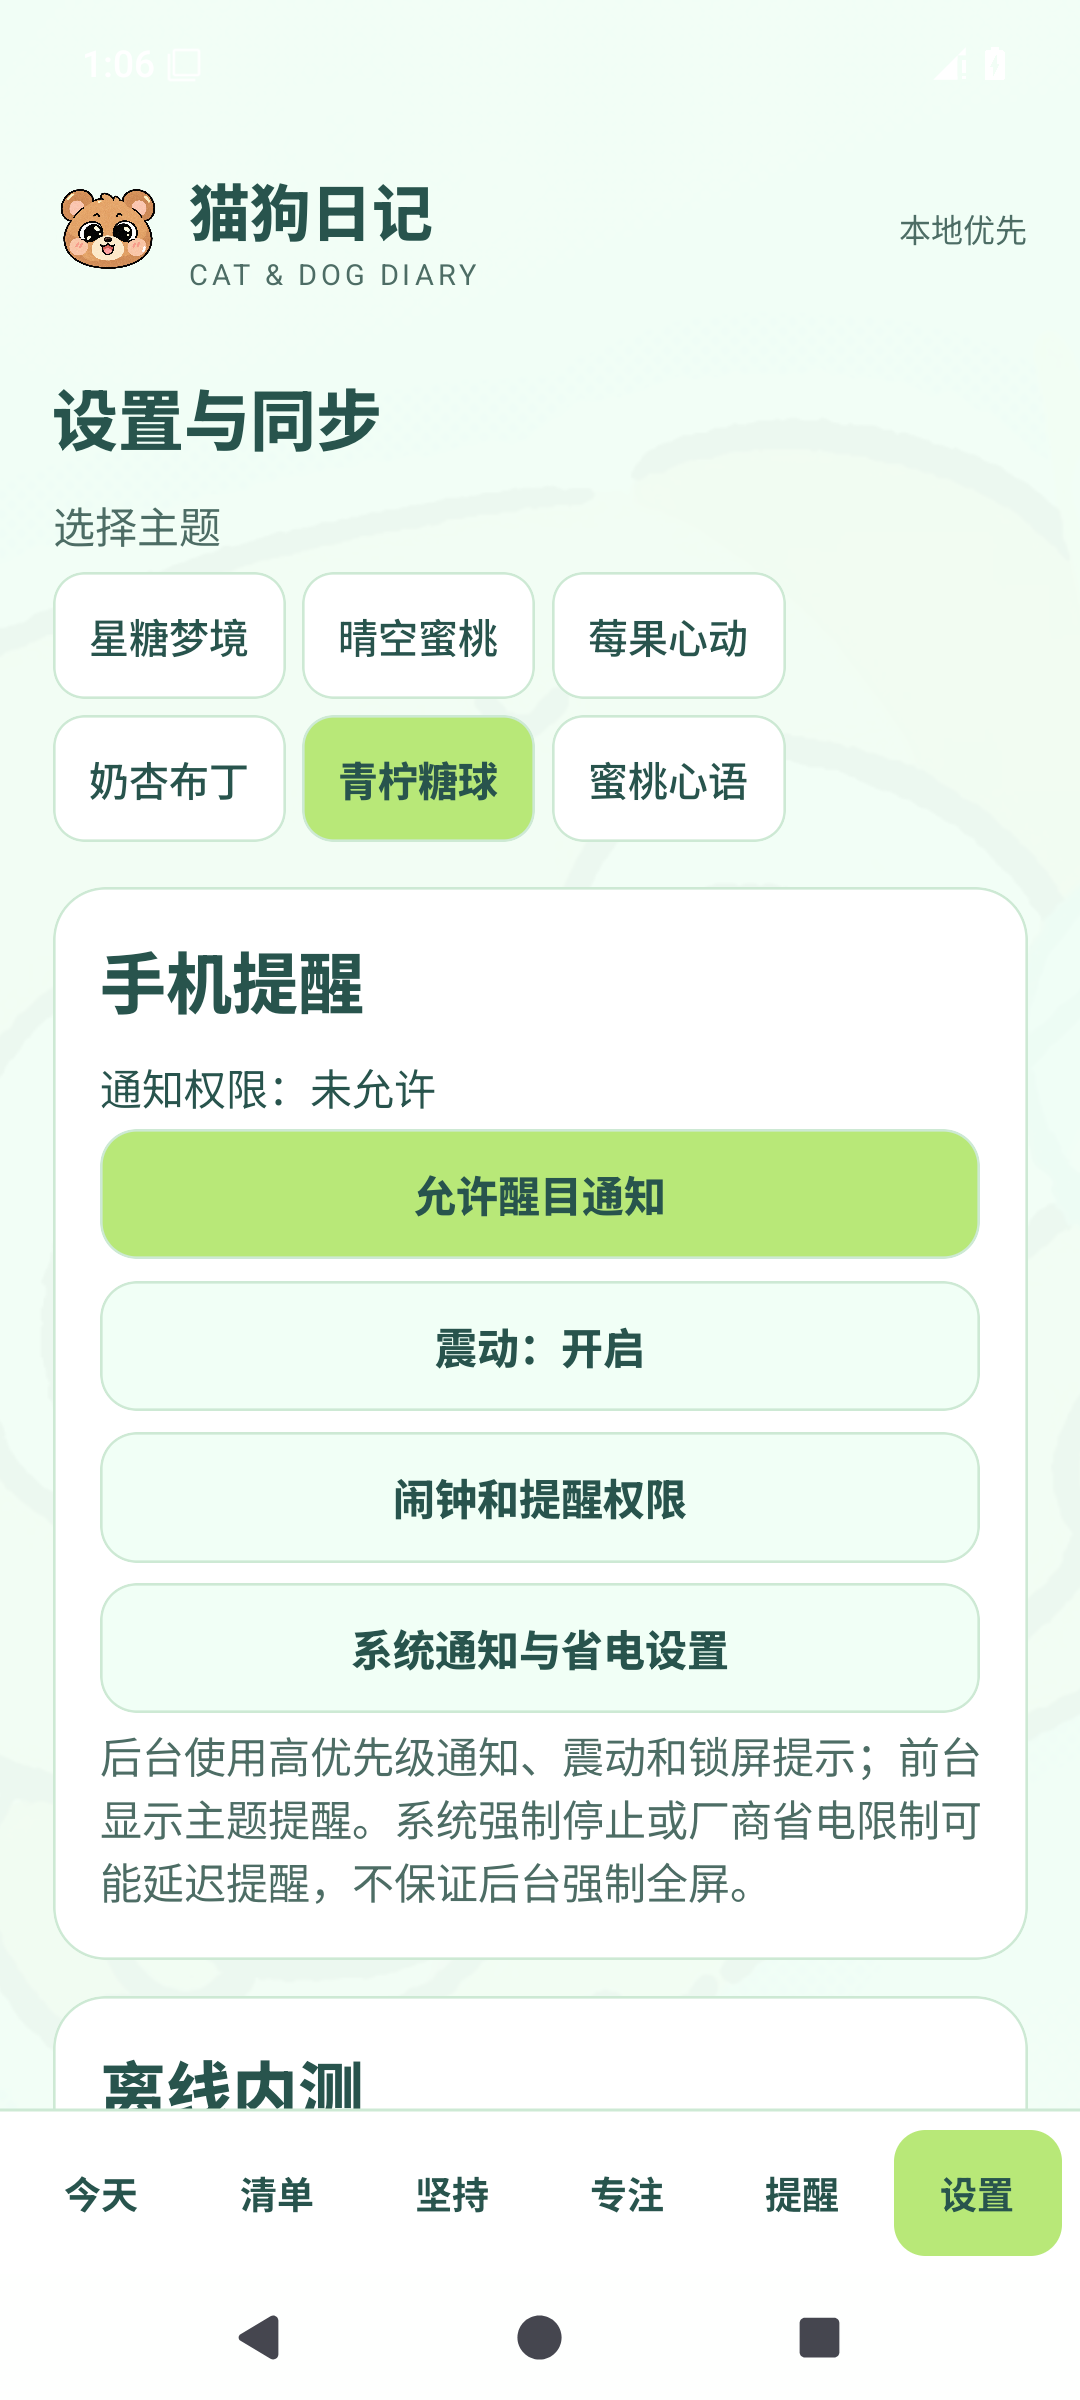
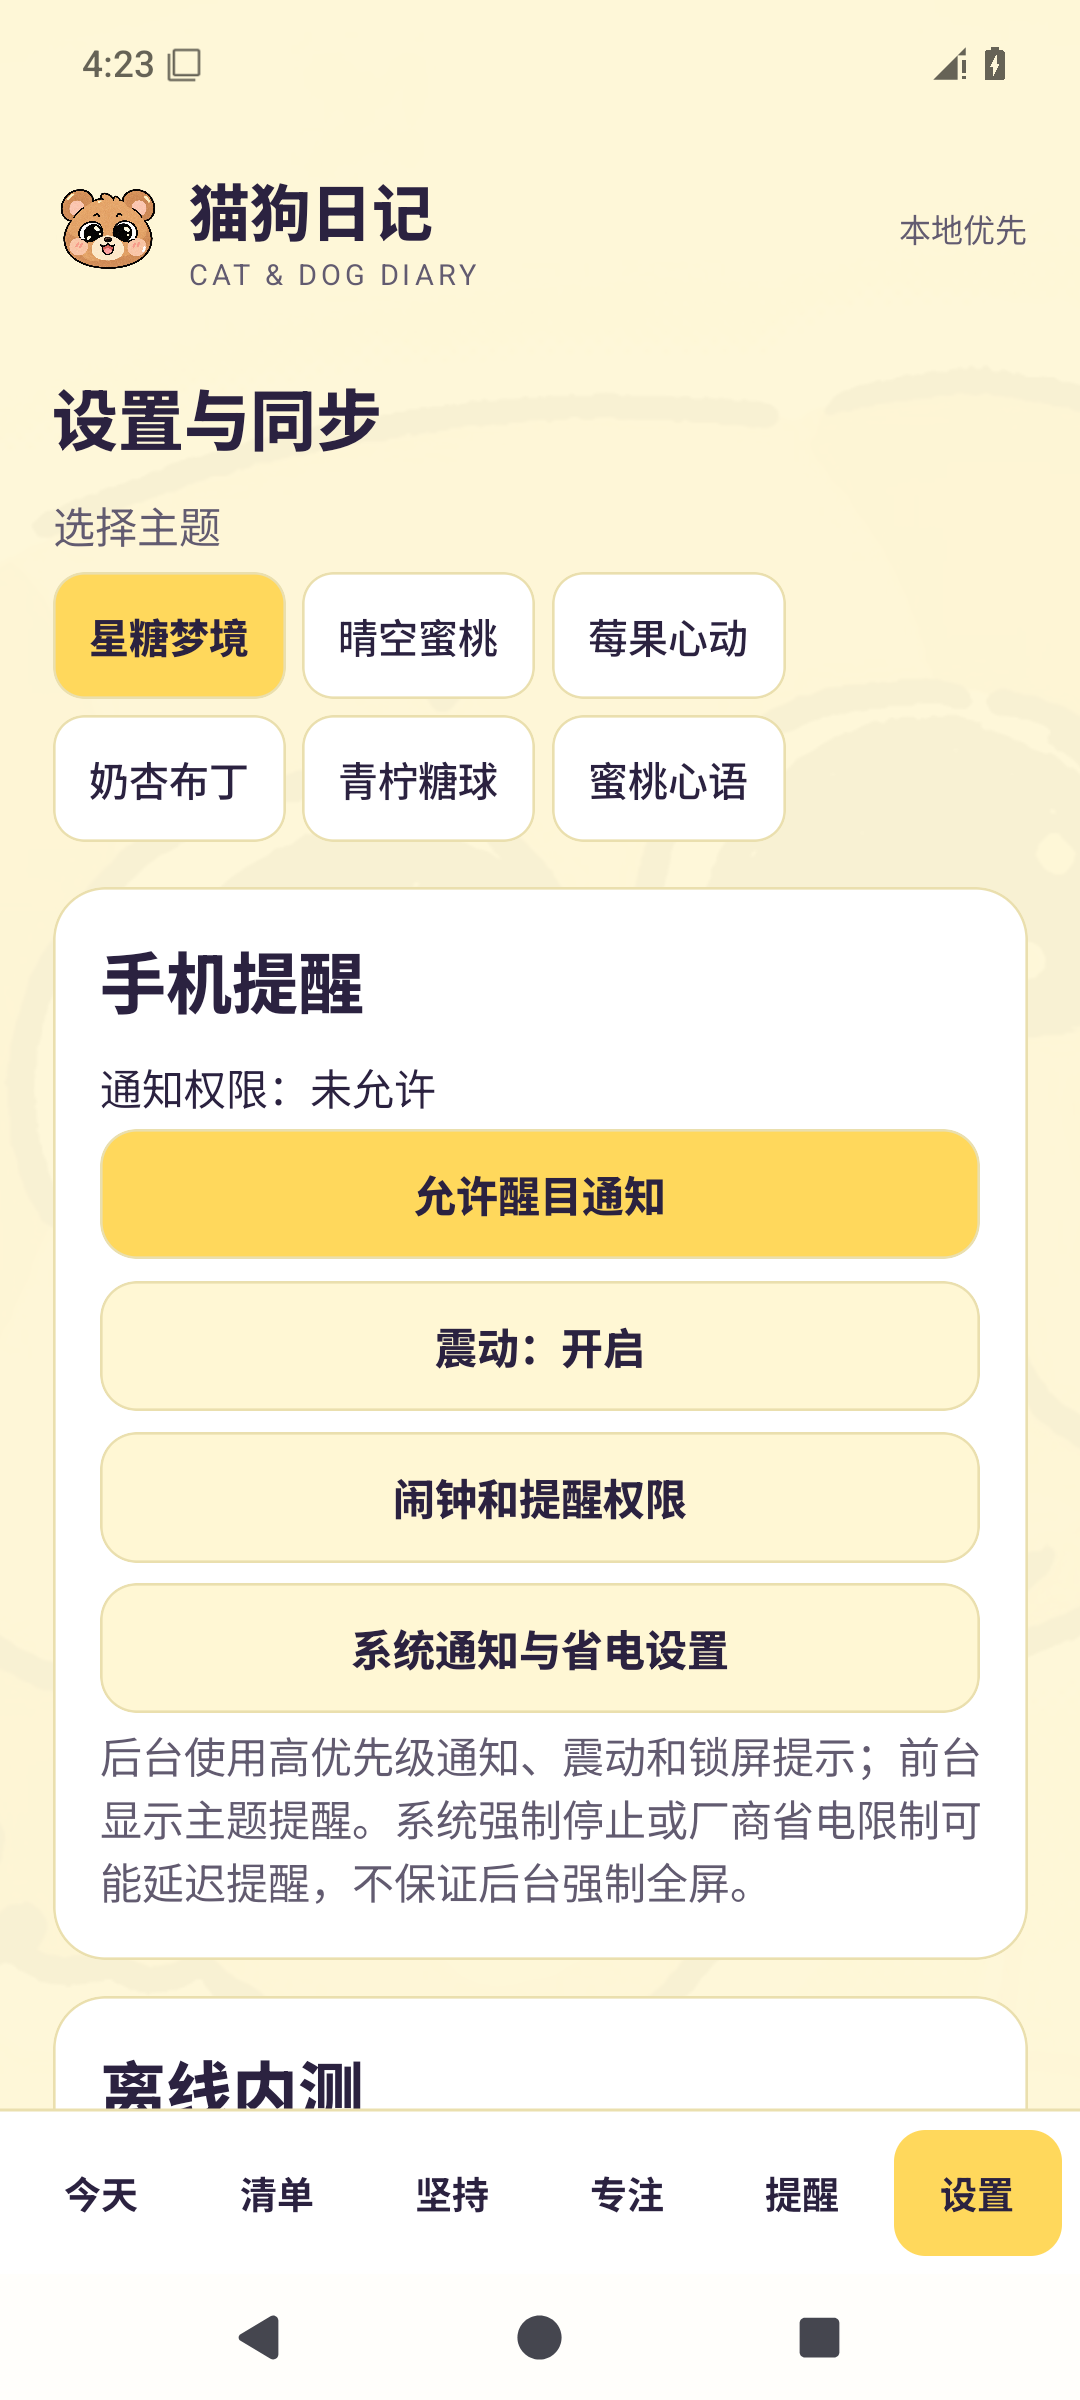
release: verify offline beta artifacts and document real reminder acceptance

diff --git a/README.md b/README.md
@@ -72,6 +72,10 @@ Windows 版在未配置同步时不联网，不需要注册账号，也不会上
 
 <img src="docs/screenshots/android/today.png" width="250" alt="安卓今天页面" /> <img src="docs/screenshots/android/focus.png" width="250" alt="安卓番茄钟" /> <img src="docs/screenshots/android/settings.png" width="250" alt="安卓主题与提醒设置" />
 
+前台全屏与后台通知（Android 15 模拟器，均为离线测试数据）：
+
+<img src="docs/screenshots/android/reminder.png" width="250" alt="实际到点的主题全屏提醒" /> <img src="docs/screenshots/android/notification.png" width="250" alt="切到后台后收到的系统通知" />
+
 目前先交付**离线内测**，无需创建 Supabase 项目或登录。手机任务和提醒保存在本机；暂不进行电脑与手机自动同步。Windows 内测包与稳定版数据隔离，双击后在程序文件夹旁创建“本地数据”（放在 E 盘就保存在 E 盘）；更新时保留该目录，里面的数据及备份不上传 GitHub。稳定版原数据目录和快捷方式不变。
 
 `apps/android` 是独立的 Expo/React Native 客户端，提供今天、任务、每日坚持、专注、六套主题和邮箱验证码登录。Windows 与 Android 的同步数据层使用 Supabase，采用本地优先策略：断网继续使用，联网后上传待处理变更并拉取云端变更；设备级提醒、离席状态、桌面小组件和正在运行的专注界面不会上传。
